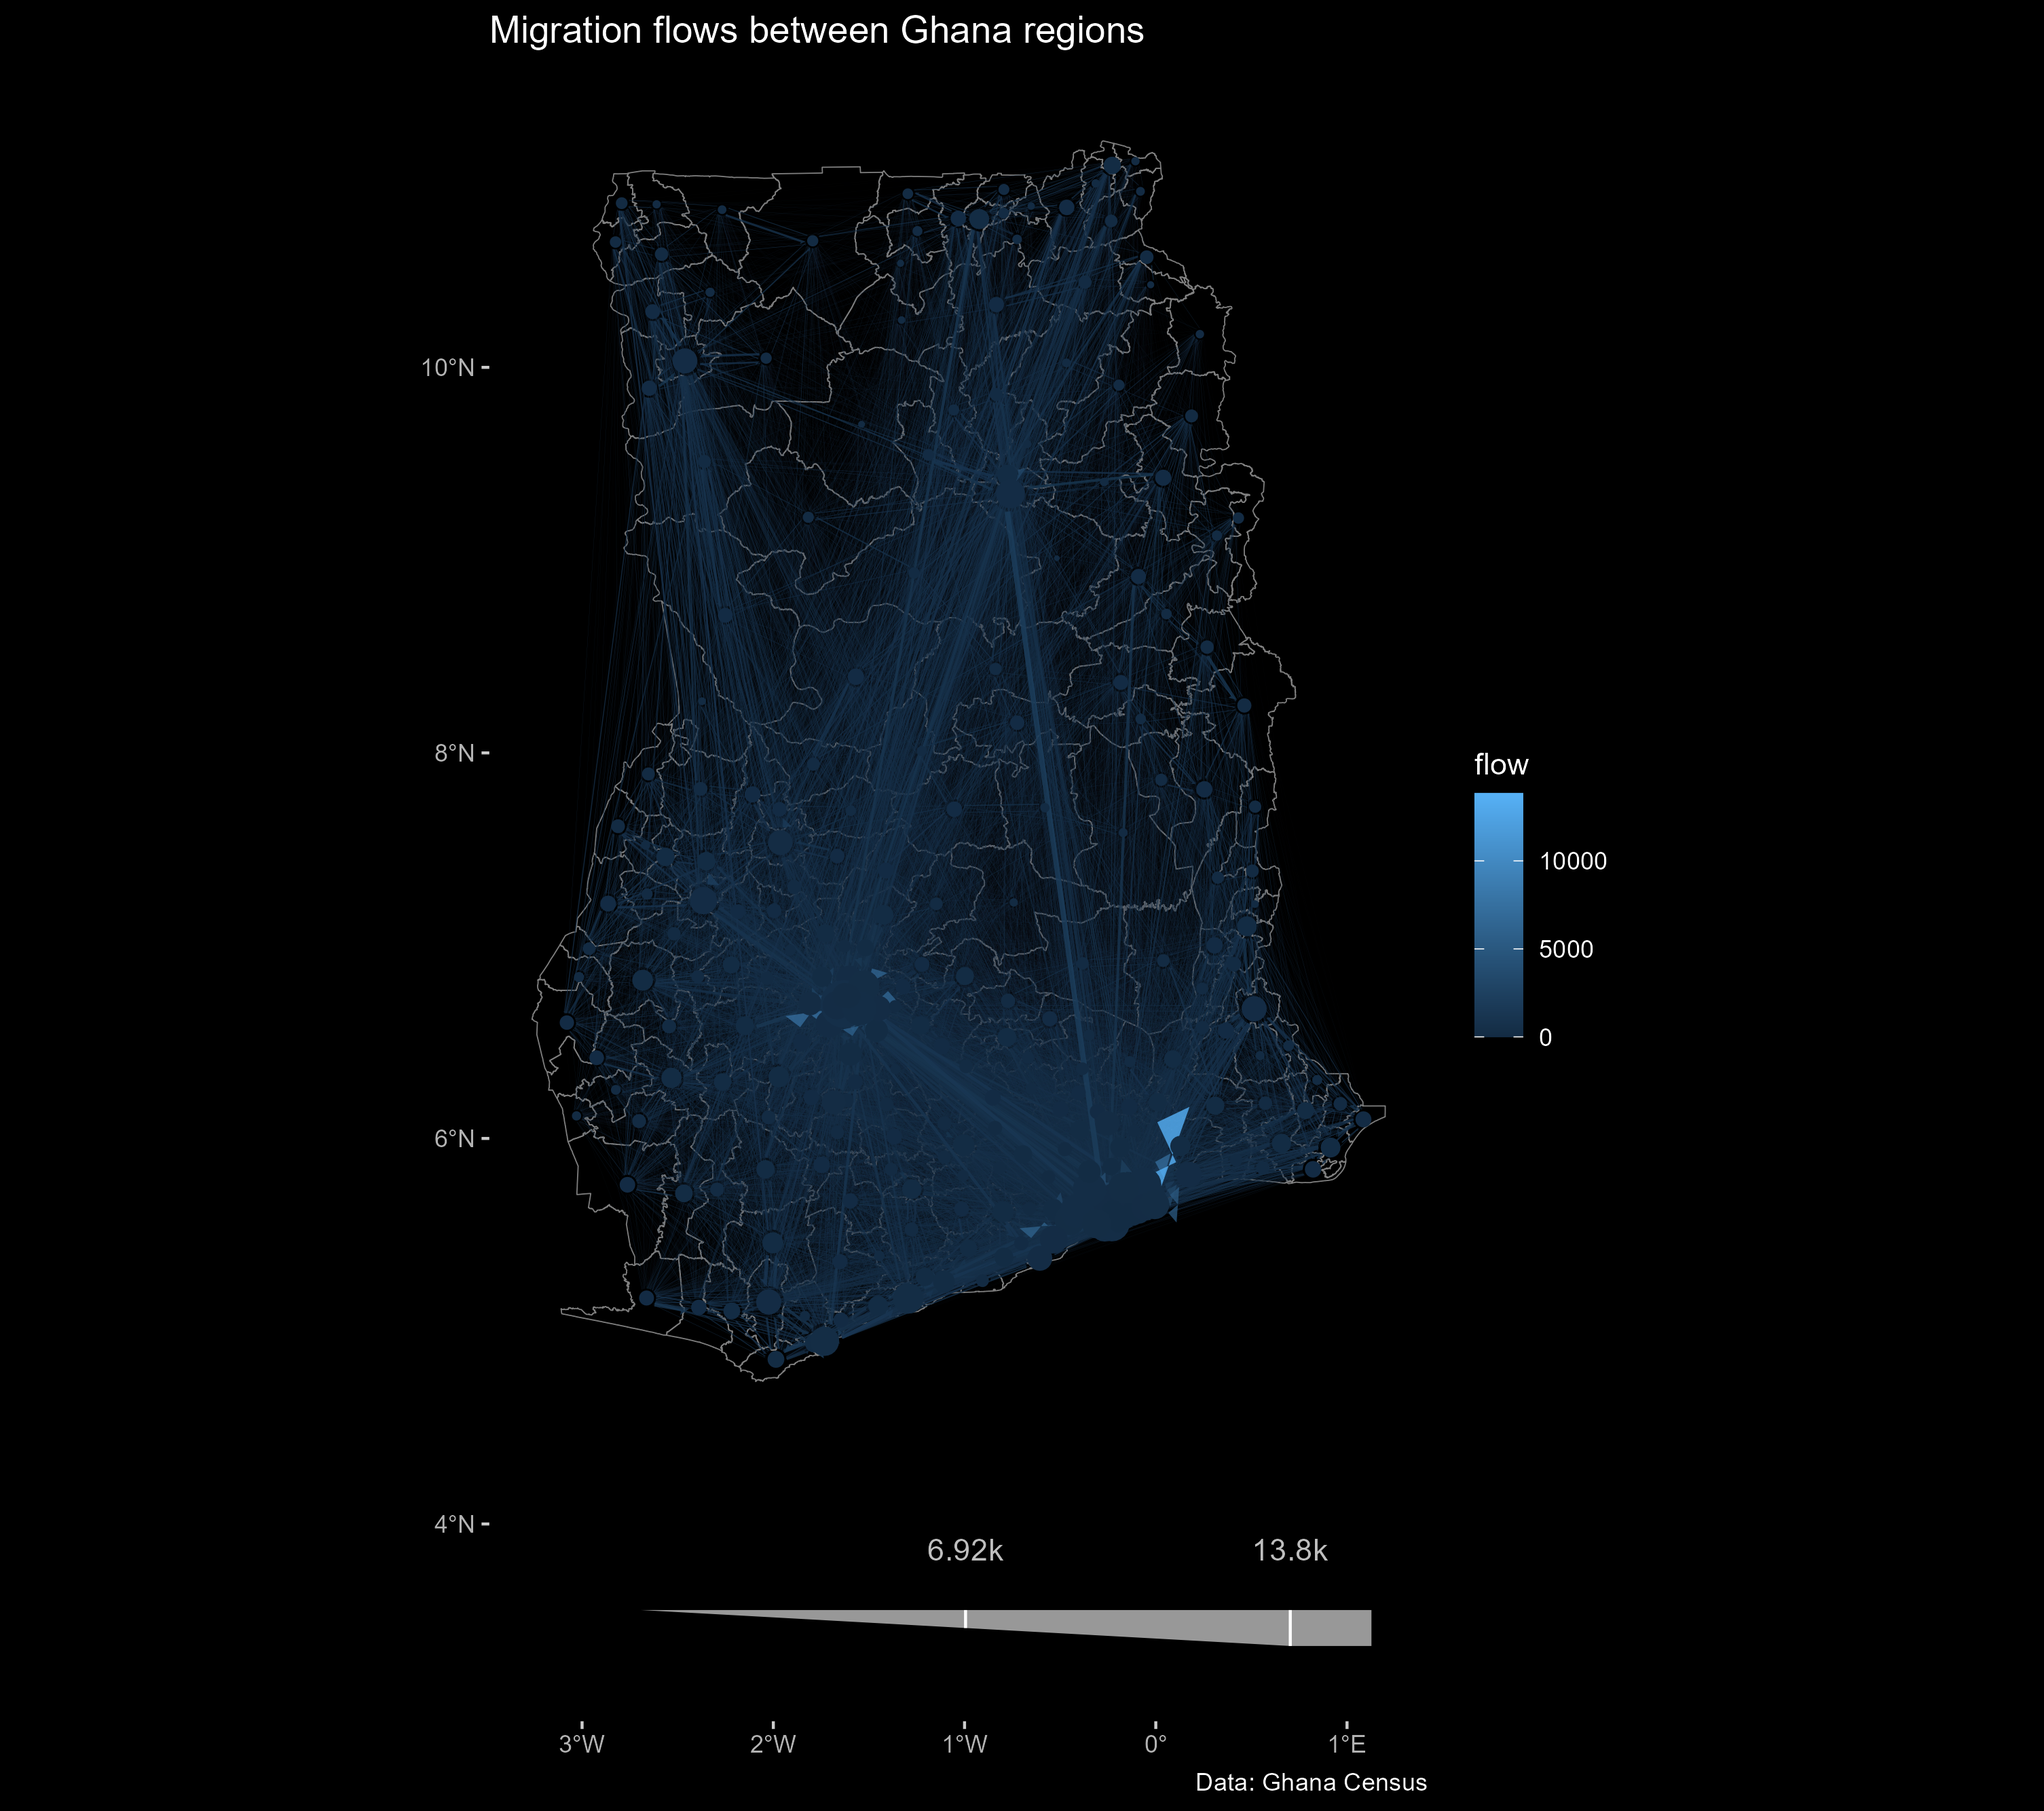
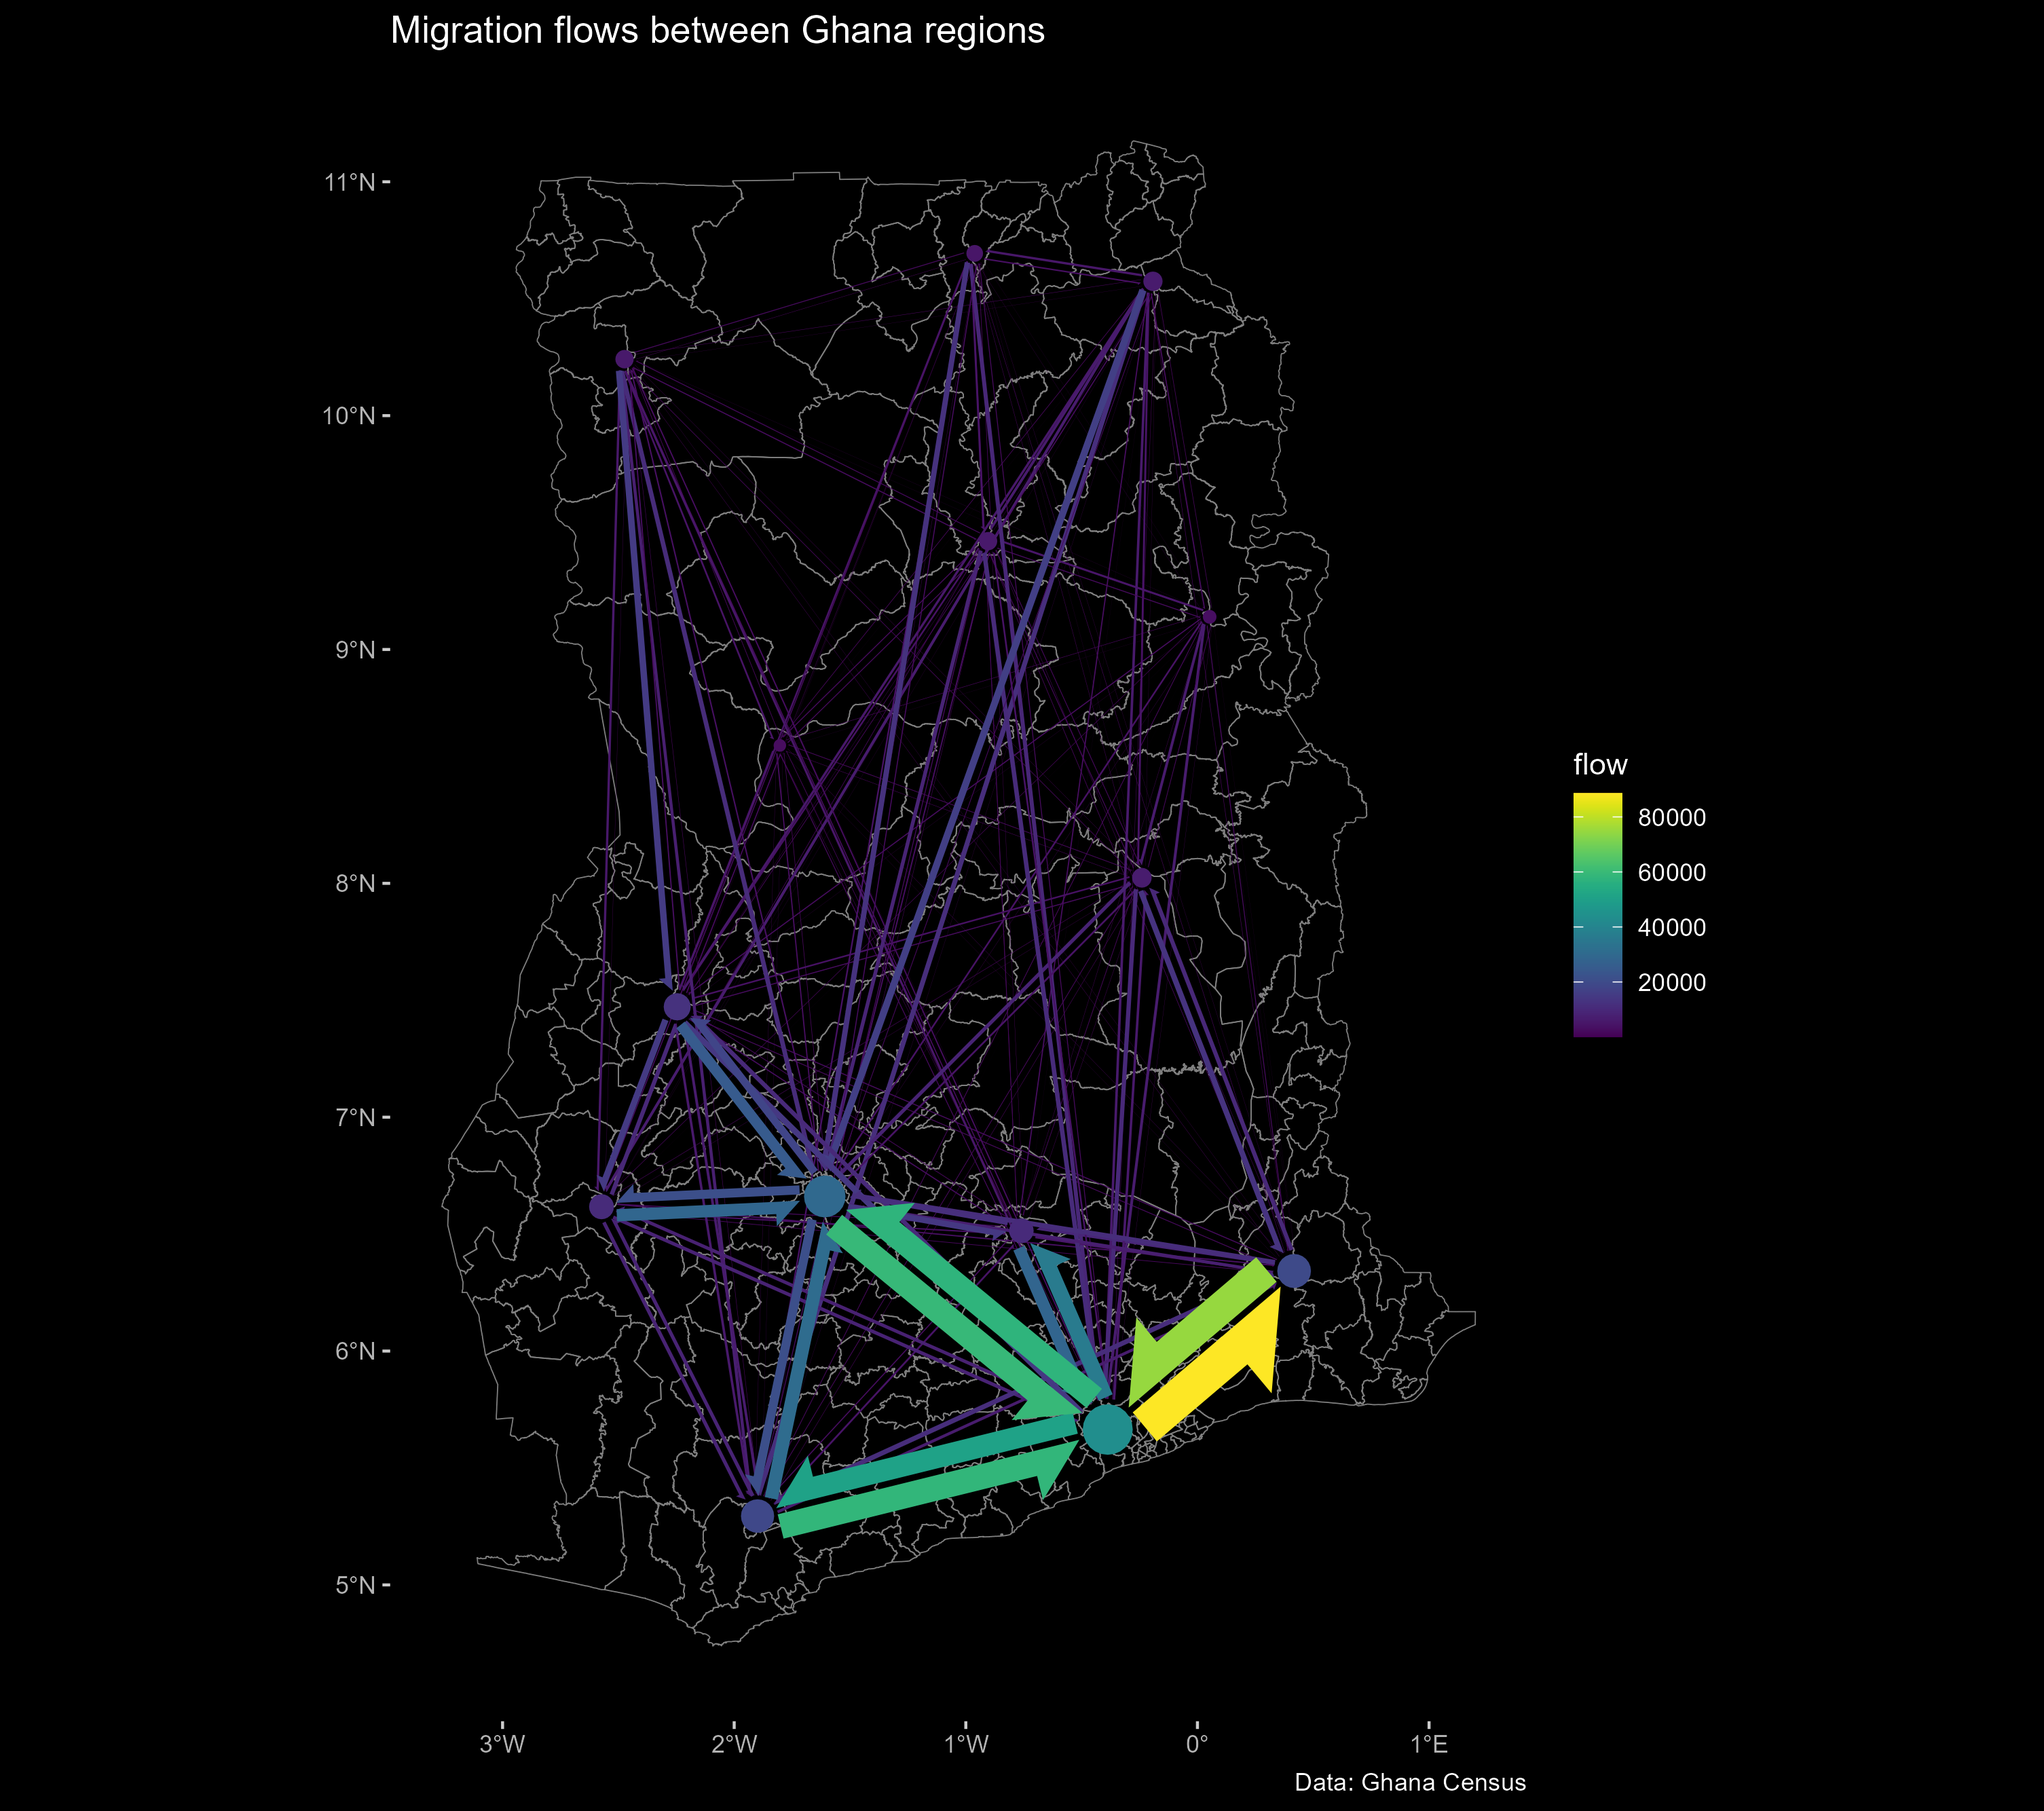
Updated with clustering option k_nodes

diff --git a/README.md b/README.md
@@ -58,7 +58,7 @@ plot |>
   coord_equal()  # coord equal is highly recommended to create symmetric shapes
 ```
 
-<img src="man/figures/README-unnamed-chunk-2-1.png" width="70%" />
+<img src="man/figures/README-c2-1.png" width="70%" />
 
 Transparency and outline of the arrows can be controlled with the
 `outline_col` and `alpha` arguments.
@@ -69,7 +69,7 @@ plot |>
   coord_equal()  # coord equal is highly recommended to create symmetric shapes
 ```
 
-<img src="man/figures/README-unnamed-chunk-3-1.png" width="70%" />
+<img src="man/figures/README-c3-1.png" width="70%" />
 
 The flow arrows are geom_polygons, with the flow mapped to the fill
 aesthetic. Thus, the fill can be adjusted like for any geom.
@@ -81,7 +81,7 @@ plot |>
   scale_fill_gradient(low="black", high = "red")
 ```
 
-<img src="man/figures/README-unnamed-chunk-4-1.png" width="70%" />
+<img src="man/figures/README-c4-1.png" width="70%" />
 
 Size of the edges and offset (distance between two paired edges) can be
 controlled with `edge_width_factor` and `edge_offset_factor` .
@@ -92,7 +92,7 @@ plot |>
   coord_equal()
 ```
 
-<img src="man/figures/README-unnamed-chunk-5-1.png" width="70%" />
+<img src="man/figures/README-c5-1.png" width="70%" />
 
 Finally, the size of the nodes can be adjusted with
 `node_radius_factor`, and the distance between nodes and edges with
@@ -105,7 +105,7 @@ plot |>
   coord_equal()
 ```
 
-<img src="man/figures/README-unnamed-chunk-6-1.png" width="70%" />
+<img src="man/figures/README-unnamed-chunk-2-1.png" width="70%" />
 
 Because the edges are polygons and not linked to an aesthetic, a typical
 ggplot legend cannot be created for their width. As an alternative, a
@@ -118,7 +118,19 @@ plot |>
   coord_equal()
 ```
 
-<img src="man/figures/README-unnamed-chunk-7-1.png" width="70%" />
+<img src="man/figures/README-unnamed-chunk-3-1.png" width="70%" />
+
+If the number of nodes is very high, the plot will appear cluttered. In
+that case, nodes can be clusered and merged by proximity, with `k_nodes`
+controlling the number of clusters.
+
+``` r
+plot |>
+  add_flowmap(testdata,k_nodes = 4)+
+  coord_equal()
+```
+
+<img src="man/figures/README-unnamed-chunk-4-1.png" width="70%" />
 
 The flowmap can be turned into an interactive plot using the
 [plotly](https://github.com/plotly/plotly.R) library. The names of the
